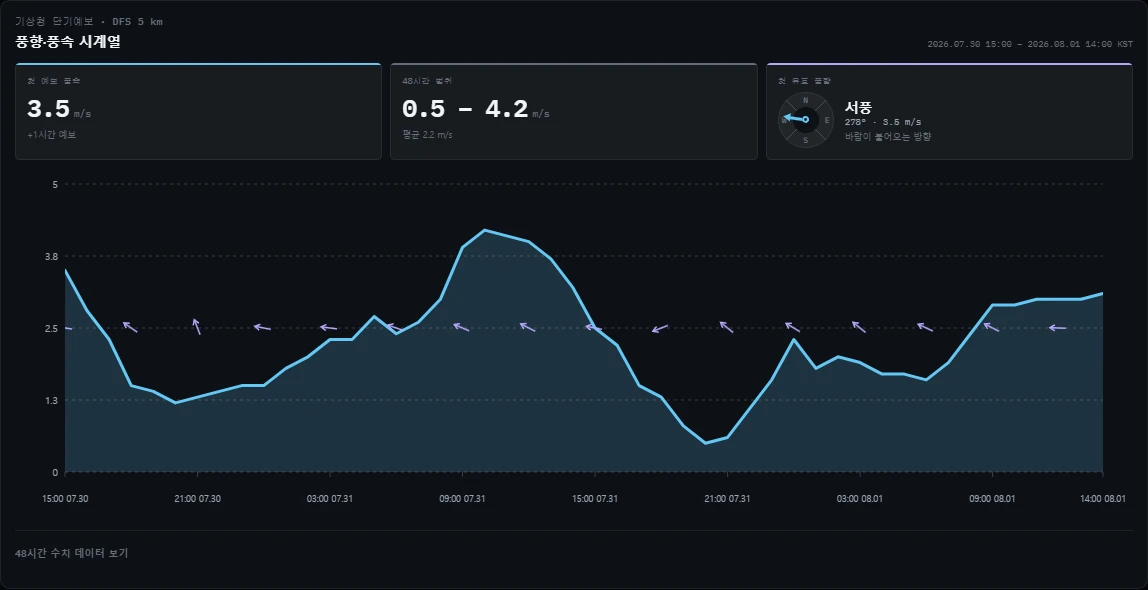
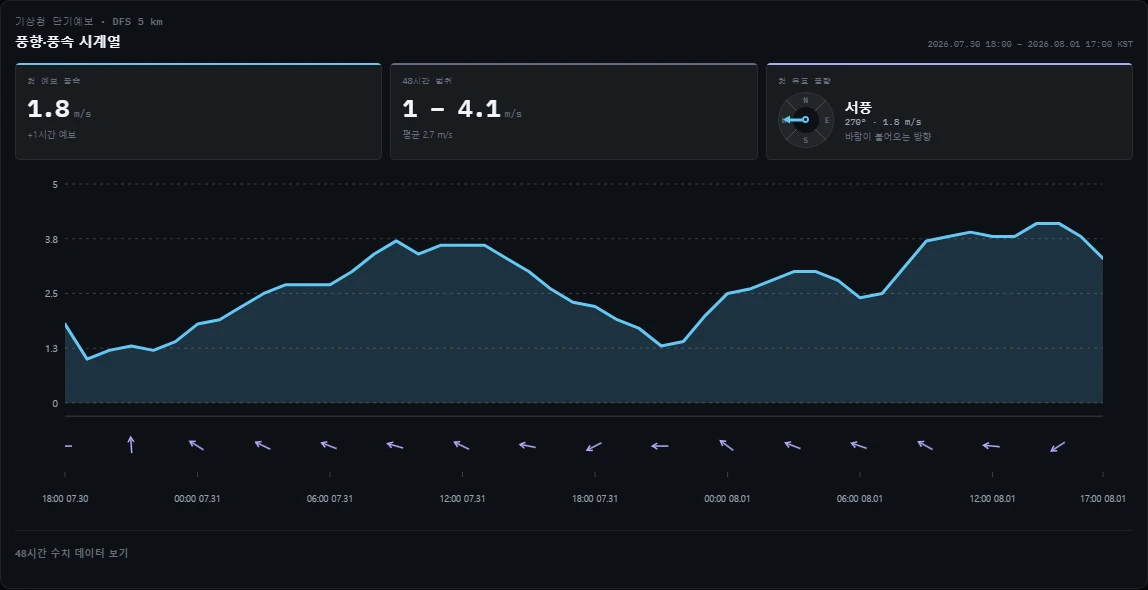
시계열 차트 풍향 화살표를 별도 레인으로 분리
풍향 화살표가 풍속 선 위에 겹쳐 그려져서, 화살표가 마치 2.5m/s 지점의 값처럼
읽히는 문제가 있었다.

축 설정은 원래 분리된 레인을 의도하고 있었다.
- 풍속축   height 76%
- 윈드바브축 top 82%, height 18%

그런데 SVG 렌더러의 yFor()가 top·height를 무시하고 모든 축을 플롯 전체 높이로
매핑했다. 화살표는 0~1 축의 0.5에 찍히므로 결과적으로 플롯 정중앙, 하필 풍속축
중간값 격자선 위에 놓였다.

- axisBand()를 추가해 축별 세로 밴드를 계산하고 yFor()가 이를 반영하도록 수정
- 풍속축 격자선·라벨도 자기 밴드(위 76%) 안에서만 그리도록 변경
- 값 영역과 표식 레인 사이에 얇은 경계선 추가
- README 캡처 갱신

검증: e2e 76/76, cloudflare 유닛 235/235

diff --git a/src/main/resources/static/js/station-charts.js b/src/main/resources/static/js/station-charts.js
@@ -853,6 +853,25 @@
         return { min: minimum, max: maximum };
     }
 
+    /**
+     * 축이 차지하는 세로 밴드를 계산한다. top·height는 플롯 높이에 대한 백분율 문자열이며,
+     * 생략하면 플롯 전체를 쓴다. 풍향 화살표처럼 값이 아닌 표식을 아래쪽 별도 레인에
+     * 두려면 이 밴드를 반드시 반영해야 한다.
+     */
+    function axisBand(axisOptions, top, plotHeight) {
+        var ratio = function (raw, fallback) {
+            if (typeof raw === 'number' && Number.isFinite(raw)) return raw / 100;
+            if (typeof raw === 'string') {
+                var parsed = parseFloat(raw);
+                if (Number.isFinite(parsed)) return parsed / 100;
+            }
+            return fallback;
+        };
+        var offset = Math.min(0.95, Math.max(0, ratio(axisOptions.top, 0)));
+        var size = Math.min(1 - offset, Math.max(0.05, ratio(axisOptions.height, 1 - offset)));
+        return { top: top + offset * plotHeight, height: size * plotHeight };
+    }
+
     function lineSegments(data, xFor, yFor) {
         var segments = [];
         var current = [];
@@ -927,10 +946,17 @@
             return Math.max(maximum, item.data.length);
         }, 0));
         var ranges = axes.map(function (axis, index) { return axisRange(axis || {}, series, index); });
+        // 축은 플롯 전체가 아니라 자기 밴드 안에만 그린다. 풍향 화살표처럼 값이 아닌 표식은
+        // top/height로 아래쪽 별도 레인을 잡아두는데, 이를 무시하면 0~1 축의 0.5가 플롯
+        // 정중앙(= 풍속축 중간값 격자선)에 찍혀 데이터 선과 겹친다.
+        var bands = axes.map(function (axis) { return axisBand(axis || {}, top, plotHeight); });
         var xFor = function (index) { return left + (count <= 1 ? plotWidth / 2 : index * plotWidth / (count - 1)); };
         var yFor = function (value, axisIndex) {
-            var range = ranges[axisIndex] || ranges[0];
-            return top + (range.max - value) / (range.max - range.min) * plotHeight;
+            var index = ranges[axisIndex] ? axisIndex : 0;
+            var range = ranges[index];
+            var band = bands[index];
+            var span = range.max - range.min;
+            return band.top + (span === 0 ? 0.5 : (range.max - value) / span) * band.height;
         };
         var svg = svgNode('svg', {
             class: 'station-chart-root', viewBox: '0 0 ' + width + ' ' + height,
@@ -949,15 +975,22 @@
         var primaryVisible = axes[0].visible !== false;
         if (primaryVisible) {
             for (var tick = 0; tick <= 4; tick += 1) {
-                var y = top + tick * plotHeight / 4;
+                var y = bands[0].top + tick * bands[0].height / 4;
                 var value = ranges[0].max - tick * (ranges[0].max - ranges[0].min) / 4;
                 grid.appendChild(svgNode('line', { x1: left, y1: y, x2: left + plotWidth, y2: y, stroke: gridColor, 'stroke-dasharray': '3 4' }));
                 grid.appendChild(svgNode('text', { x: left - 7, y: y + 4, fill: textColor, 'font-size': 10, 'text-anchor': 'end' }, formatNumber(value, Math.abs(value) < 10 ? 1 : 0)));
             }
         }
+        // 별도 레인이 있으면 값 영역과 표식 영역의 경계를 얇은 선으로 알려 준다.
+        if (bands.length > 1 && bands[1].top > bands[0].top + bands[0].height) {
+            grid.appendChild(svgNode('line', {
+                x1: left, y1: bands[1].top - 4, x2: left + plotWidth, y2: bands[1].top - 4,
+                stroke: gridColor, 'stroke-width': 1
+            }));
+        }
         if (secondaryLabelled) {
             for (var rightTick = 0; rightTick <= 4; rightTick += 1) {
-                var rightY = top + rightTick * plotHeight / 4;
+                var rightY = bands[1].top + rightTick * bands[1].height / 4;
                 var rightValue = ranges[1].max - rightTick * (ranges[1].max - ranges[1].min) / 4;
                 grid.appendChild(svgNode('text', { x: left + plotWidth + 7, y: rightY + 4, fill: textColor, 'font-size': 10, 'text-anchor': 'start' },
                     formatNumber(rightValue, Math.abs(rightValue) < 10 ? 1 : 0)));
